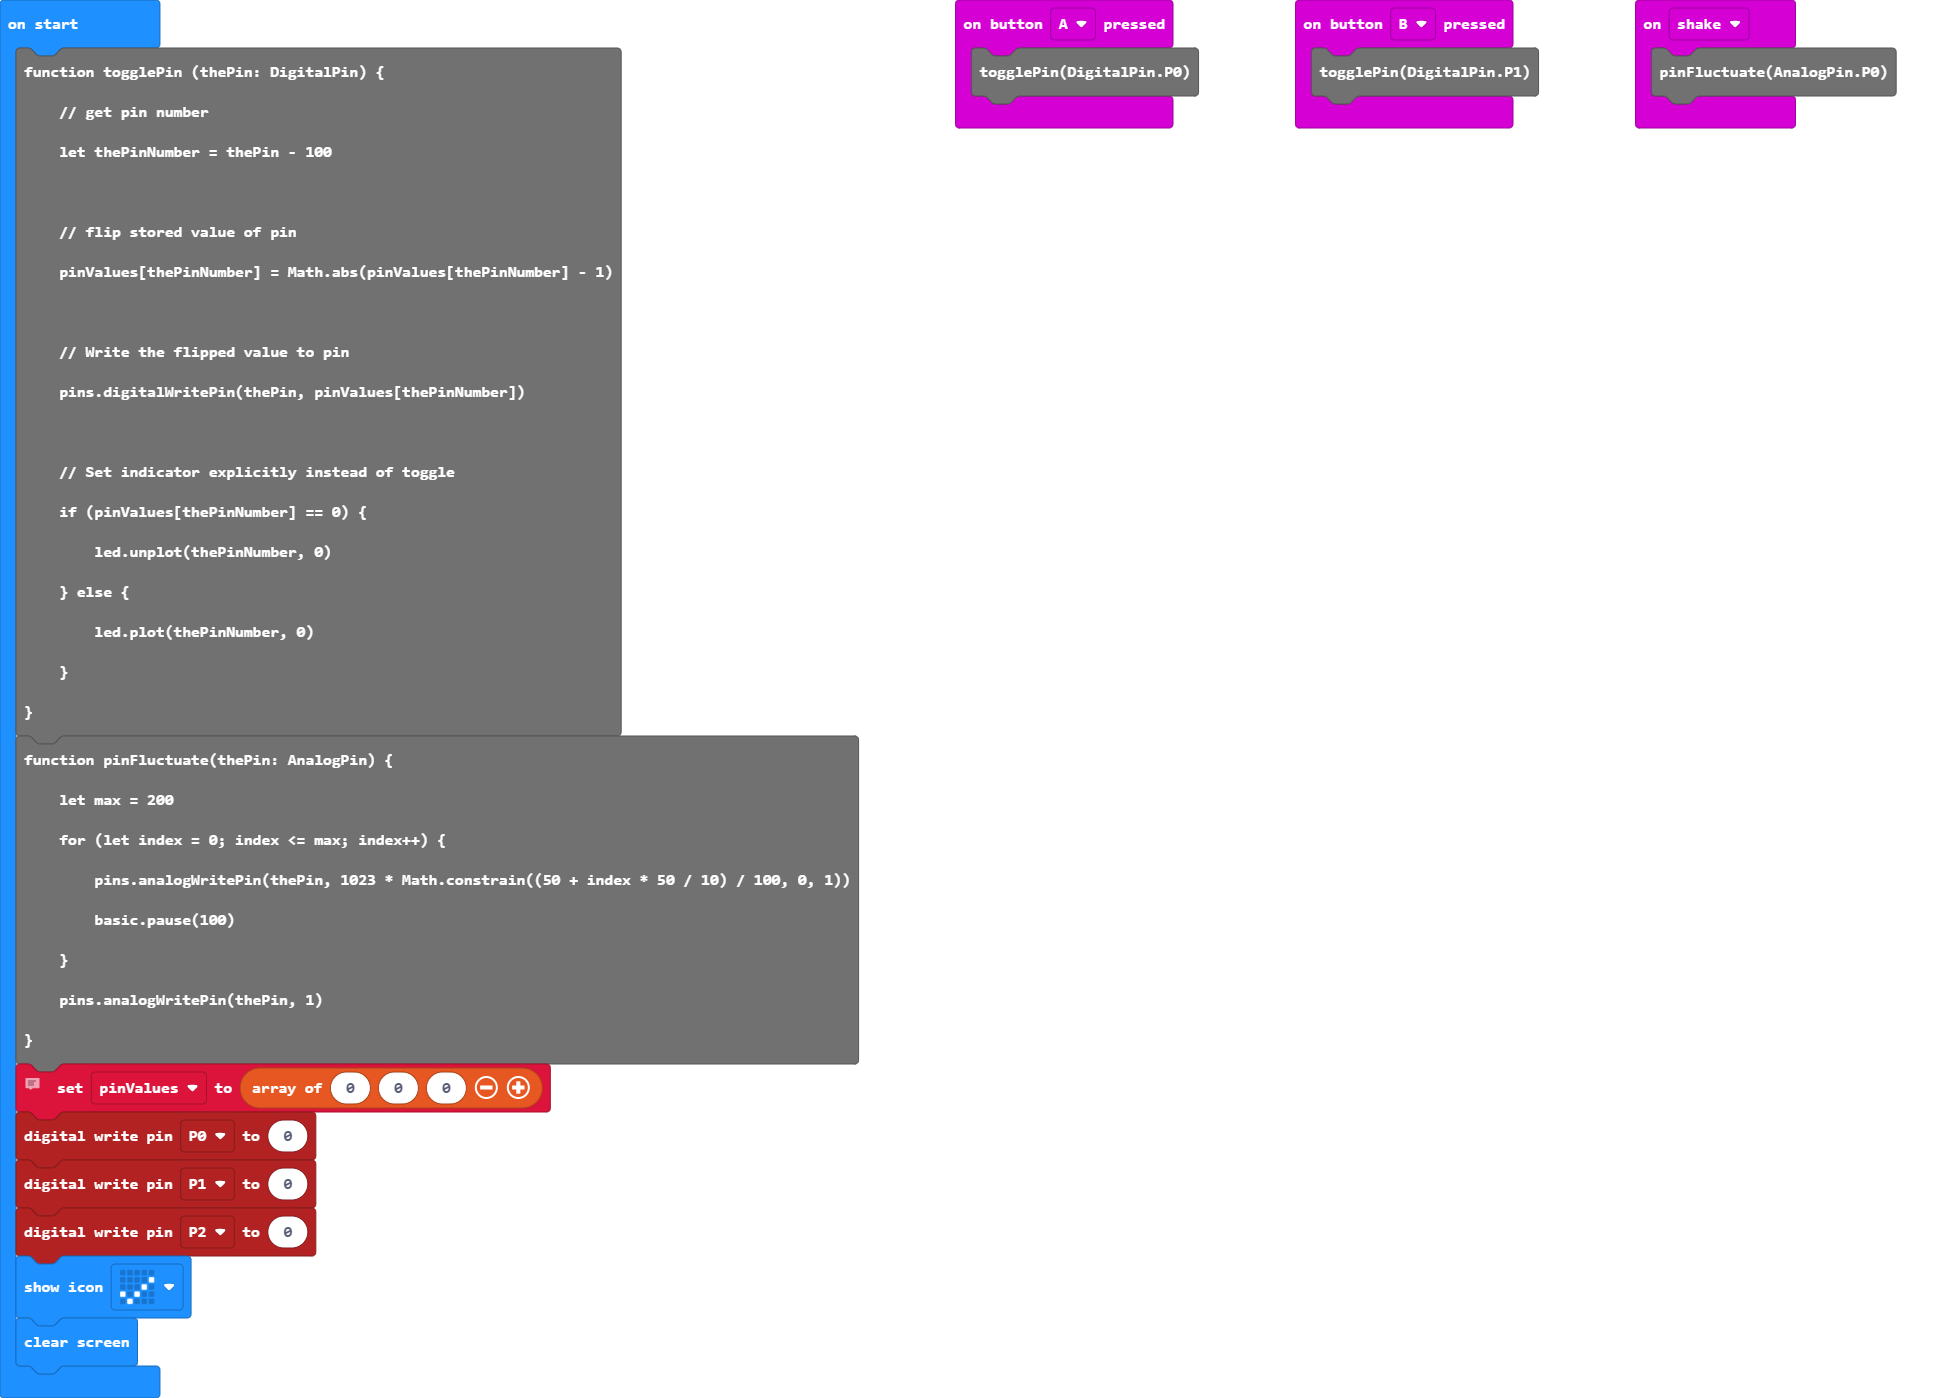
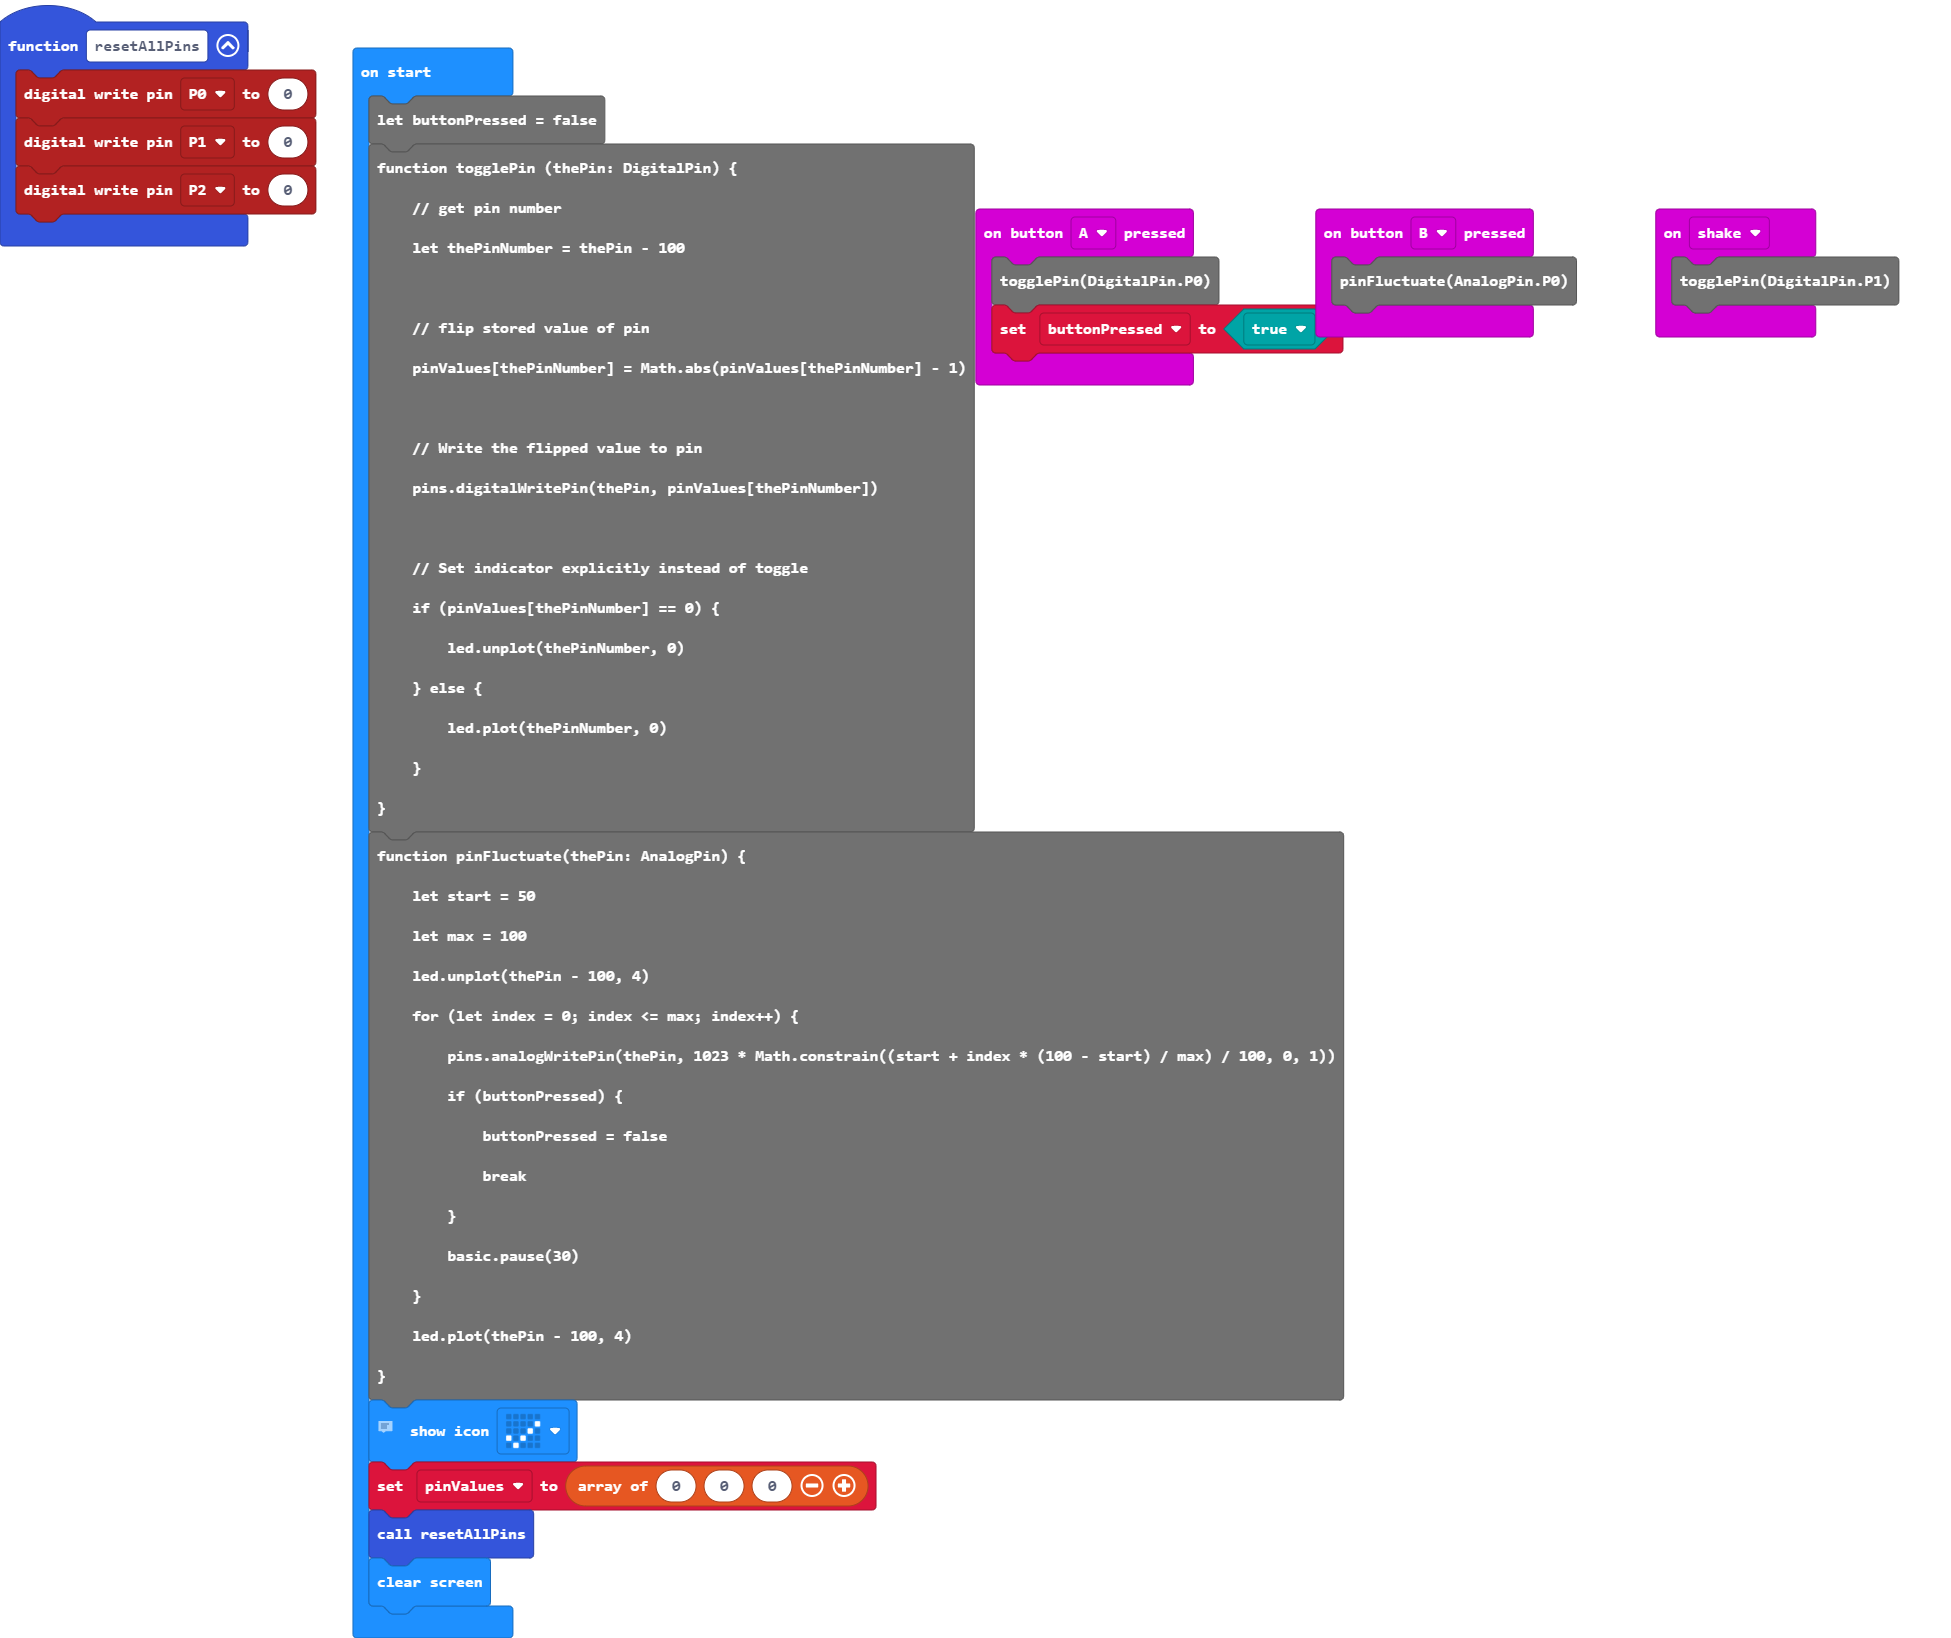
Improved button interruption. Added fluctuate down loop.

diff --git a/main.ts b/main.ts
@@ -1,14 +1,19 @@
 input.onButtonPressed(Button.A, function () {
     togglePin(DigitalPin.P0)
-    buttonPressed = true
+buttonPressed = true
 })
+function resetAllPins () {
+    pins.digitalWritePin(DigitalPin.P0, 0)
+    pins.digitalWritePin(DigitalPin.P1, 0)
+    pins.digitalWritePin(DigitalPin.P2, 0)
+}
 input.onButtonPressed(Button.B, function () {
     pinFluctuate(AnalogPin.P0)
 })
 input.onGesture(Gesture.Shake, function () {
-    //pins.analogWritePin(AnalogPin.P0, 0)
     togglePin(DigitalPin.P1)
 })
+
 function togglePin (thePin: DigitalPin) { 
     // get pin number
     let thePinNumber = thePin - 100
@@ -27,23 +32,19 @@ function togglePin (thePin: DigitalPin) {
     }
 }
 function pinFluctuate(thePin: AnalogPin) {
-    let start = 50
-    let max = 100
+    let start = 10
+    let max = 40
     led.unplot(thePin - 100, 4)
-    for (let index = 0; index <= max; index++) {
+    for (let index = max; index >= 0 && !buttonPressed; index--) {
         pins.analogWritePin(thePin, 1023 * Math.constrain((start + index * (100 - start) / max) / 100, 0, 1))
-        if (buttonPressed) {
-            buttonPressed = false
-            break
-        }
         basic.pause(30)
     }
+    for (let index = 0; index <= max && !buttonPressed; index++) {
+        pins.analogWritePin(thePin, 1023 * Math.constrain((start + index * (100 - start) / max) / 100, 0, 1))
+        basic.pause(30)
+    }
+    buttonPressed = false
     led.plot(thePin - 100, 4)
-}
-function resetAllPins() {
-    pins.digitalWritePin(DigitalPin.P0, 0)
-    pins.digitalWritePin(DigitalPin.P1, 0)
-    pins.digitalWritePin(DigitalPin.P2, 0)
 }
 // Initialize
 basic.showIcon(IconNames.Yes)
